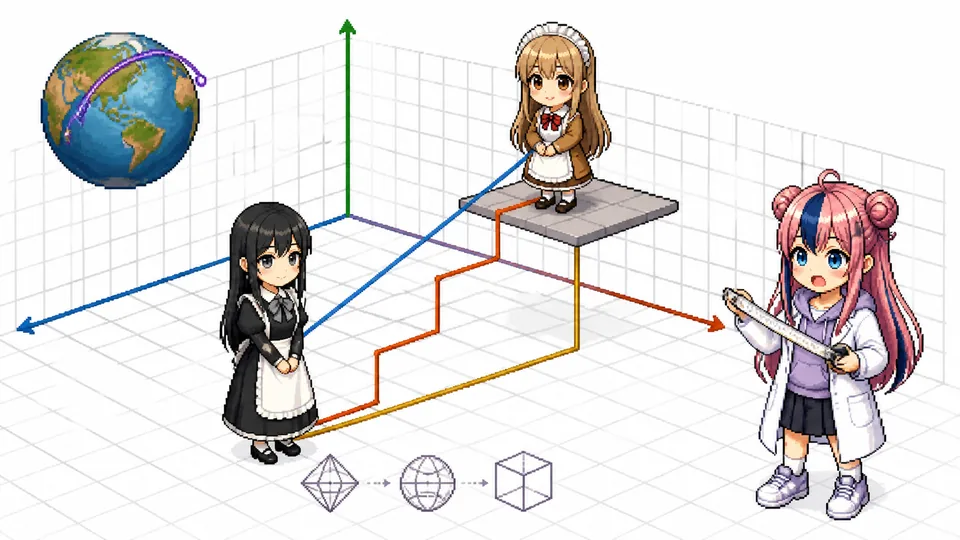
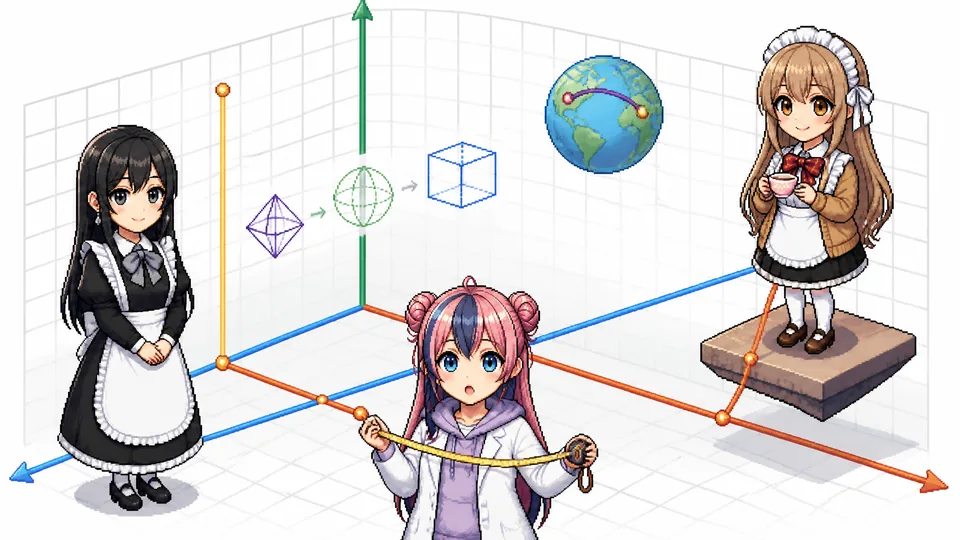
EP.04 표지·썸네일 교체: 1부 표지, 2부 표지(하루 피규어), 홈 카드 썸네일

diff --git a/index.html b/index.html
@@ -94,7 +94,7 @@ code{font:12px ui-monospace,Menlo,monospace}
     <div class="kpi"><b>8 ≤ 9.899 ≤ 16</b><span>체비쇼프 ≤ 유클리드 ≤ 맨해튼</span></div>
   </div>
   <div class="parts"><span class="on">1부 · 공간 속 거리</span><span class="soon">2부 · 같은 것인가 (해밍·자카드·다이스) — 준비 중</span></div>
-  </div><img src="images/cover_part1.webp" alt="좌표 방에서 시아와 모아 사이를 직선·꺾인 길·한 축으로 잇고, 하루가 줄자를 든 픽셀아트 표지" width="960" height="540"></div>
+  </div><img src="images/cover_part1.webp" alt="좌표 방에서 바닥의 시아와 공중 발판의 모아 사이를 꺾인 길로 잇고, 정팔면체·공·정육면체와 지구본 앞에서 하루가 줄자를 든 픽셀아트 표지" width="960" height="540"></div>
 </header>
 <div class="app">
   <nav id="nav"></nav>

diff --git a/tools/page_template_part1.html b/tools/page_template_part1.html
@@ -94,7 +94,7 @@ code{font:12px ui-monospace,Menlo,monospace}
     <div class="kpi"><b>8 ≤ 9.899 ≤ 16</b><span>체비쇼프 ≤ 유클리드 ≤ 맨해튼</span></div>
   </div>
   <div class="parts"><span class="on">1부 · 공간 속 거리</span><span class="soon">2부 · 같은 것인가 (해밍·자카드·다이스) — 준비 중</span></div>
-  </div><img src="images/cover_part1.webp" alt="좌표 방에서 시아와 모아 사이를 직선·꺾인 길·한 축으로 잇고, 하루가 줄자를 든 픽셀아트 표지" width="960" height="540"></div>
+  </div><img src="images/cover_part1.webp" alt="좌표 방에서 바닥의 시아와 공중 발판의 모아 사이를 꺾인 길로 잇고, 정팔면체·공·정육면체와 지구본 앞에서 하루가 줄자를 든 픽셀아트 표지" width="960" height="540"></div>
 </header>
 <div class="app">
   <nav id="nav"></nav>
